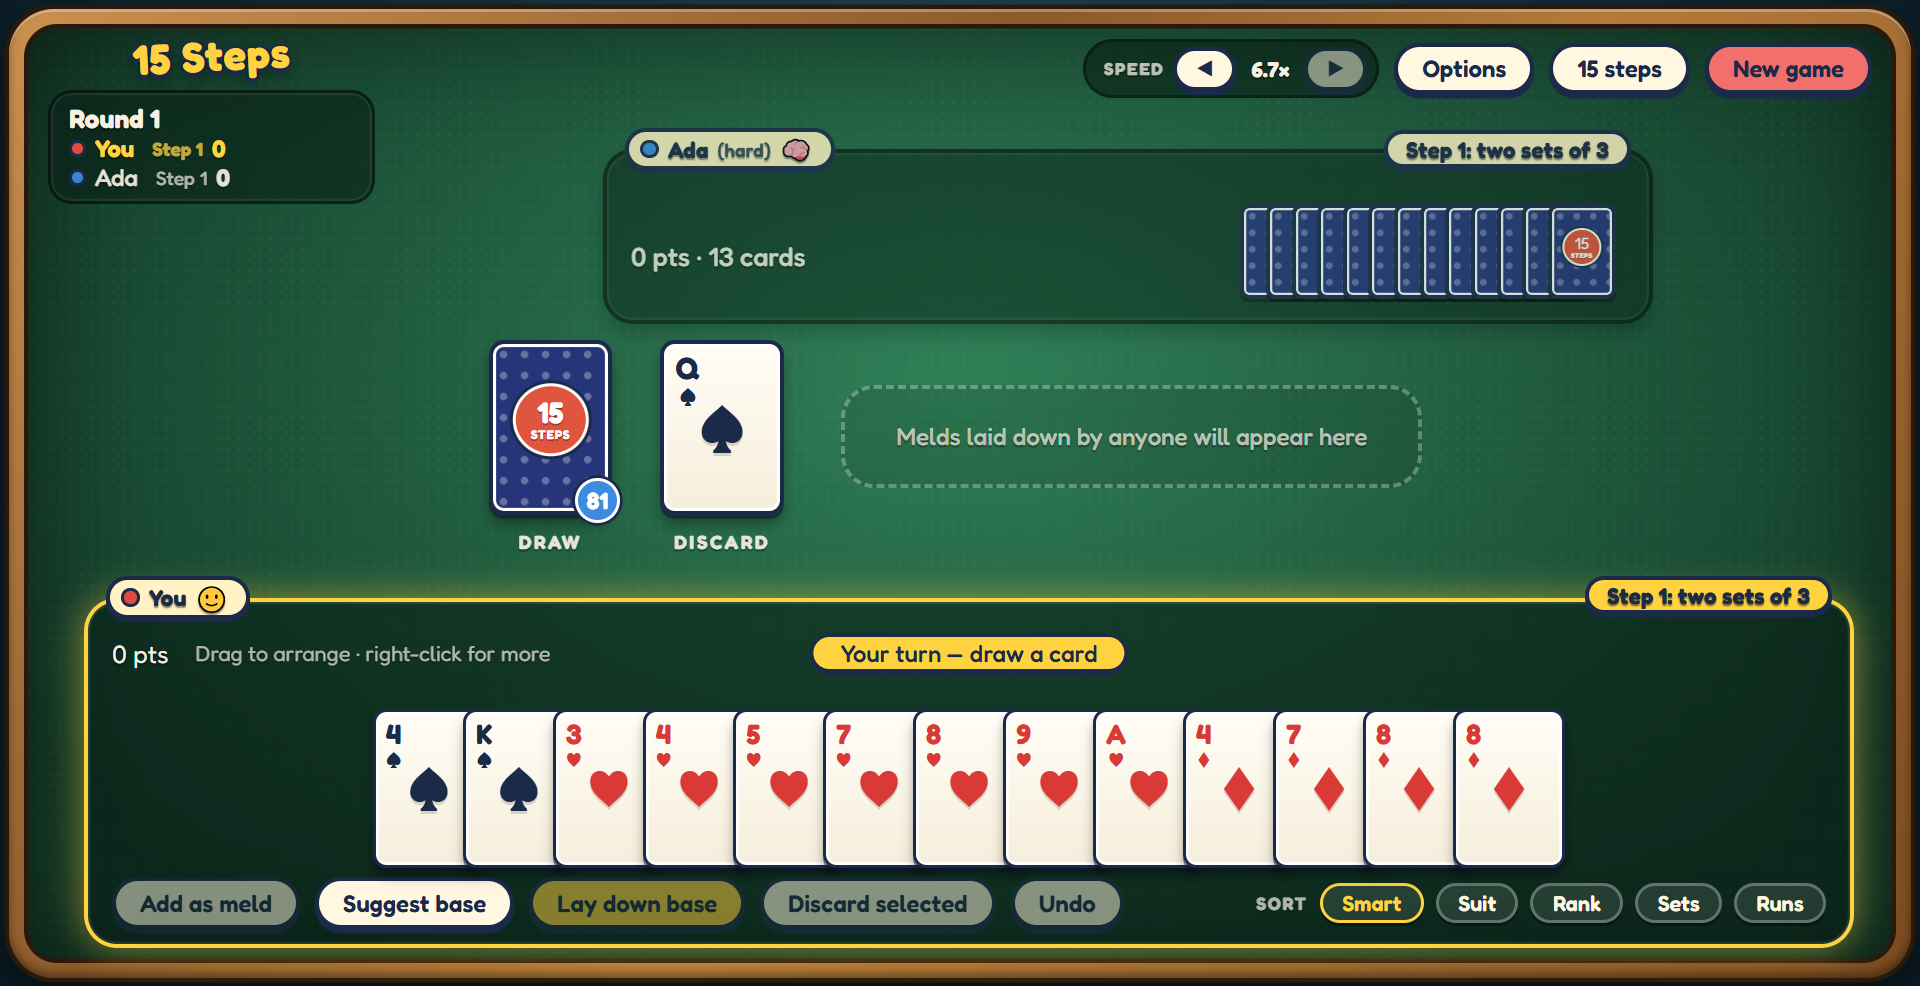
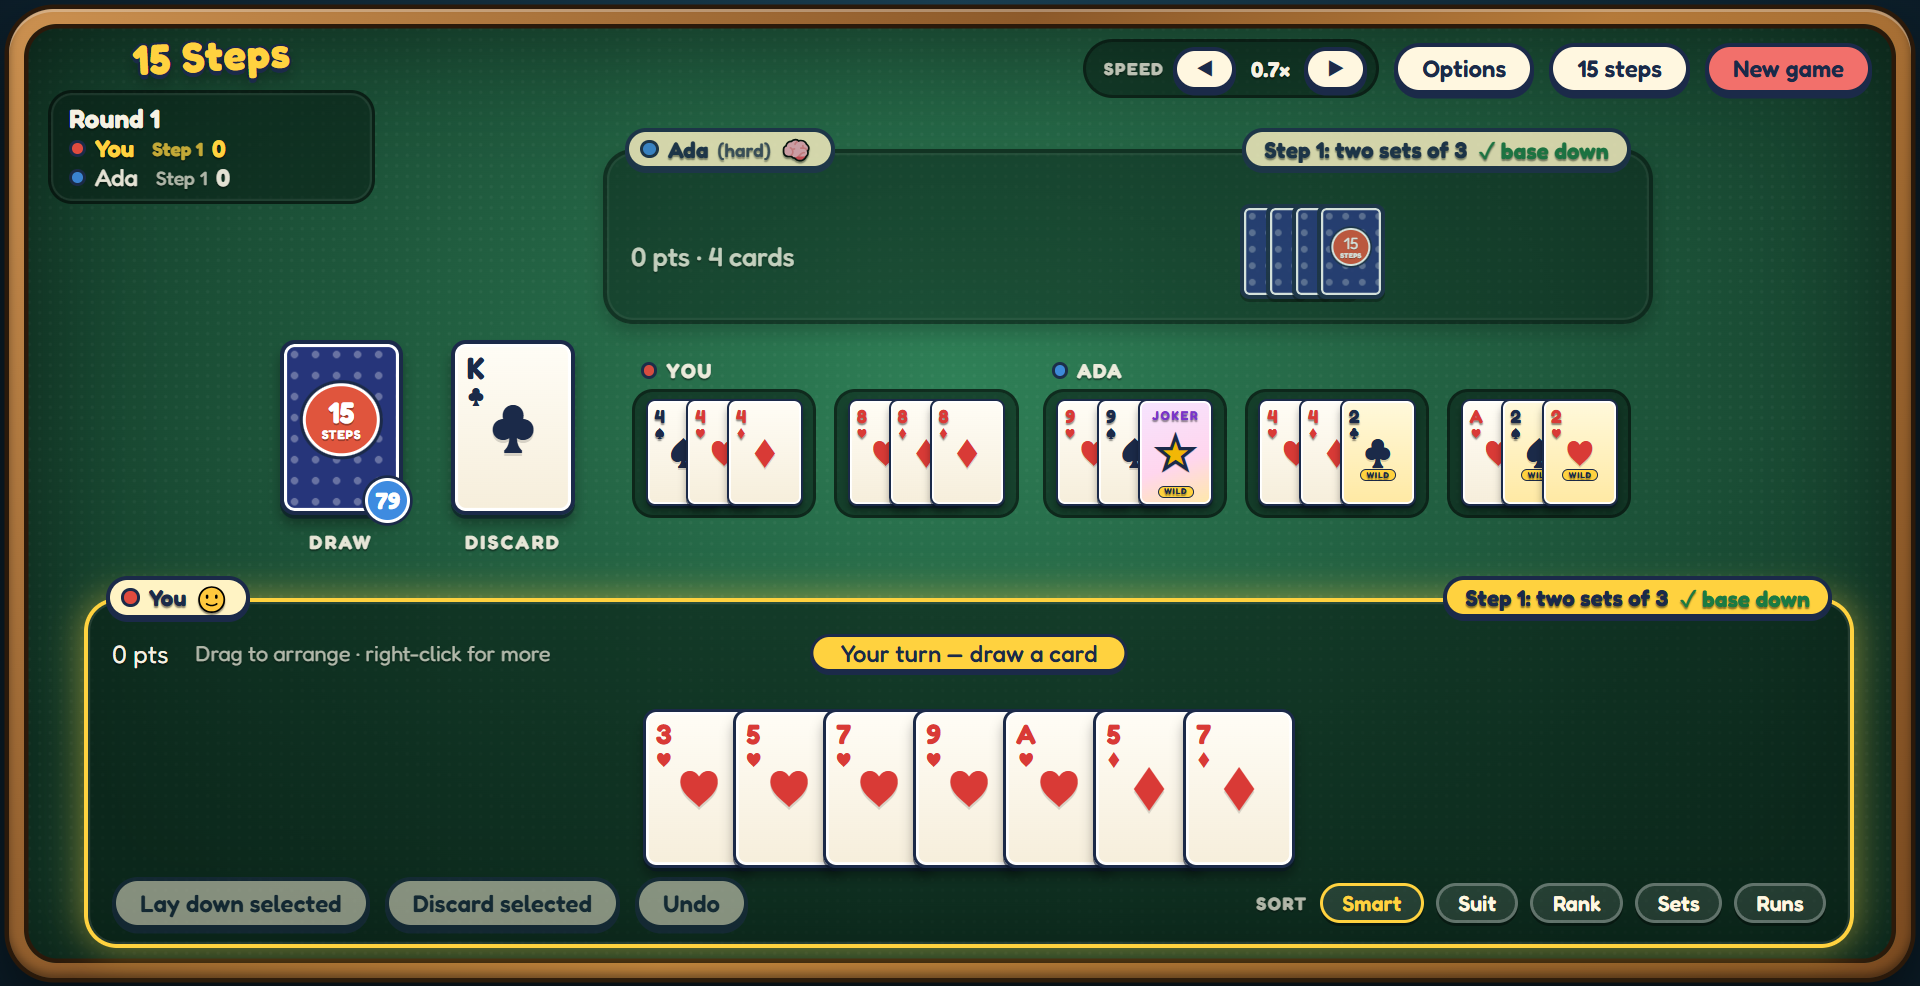
Windows screenshot: mid-round, with melds on the table, at 0.7x

diff --git a/README.md b/README.md
@@ -6,7 +6,7 @@ Play against computer players (Easy, Medium or Hard), or sit back and watch the 
 
 ![15 Steps on a Mac: a round against Ada, with her melds on the table and your hand along the bottom](docs/screenshots/mac-table.png)
 
-![15 Steps on Windows: the start of a round against Ada, with your hand along the bottom](docs/screenshots/windows-table.png)
+![15 Steps on Windows: a round against Ada, with melds on the table and your hand along the bottom](docs/screenshots/windows-table.png)
 
 ## Download
 
